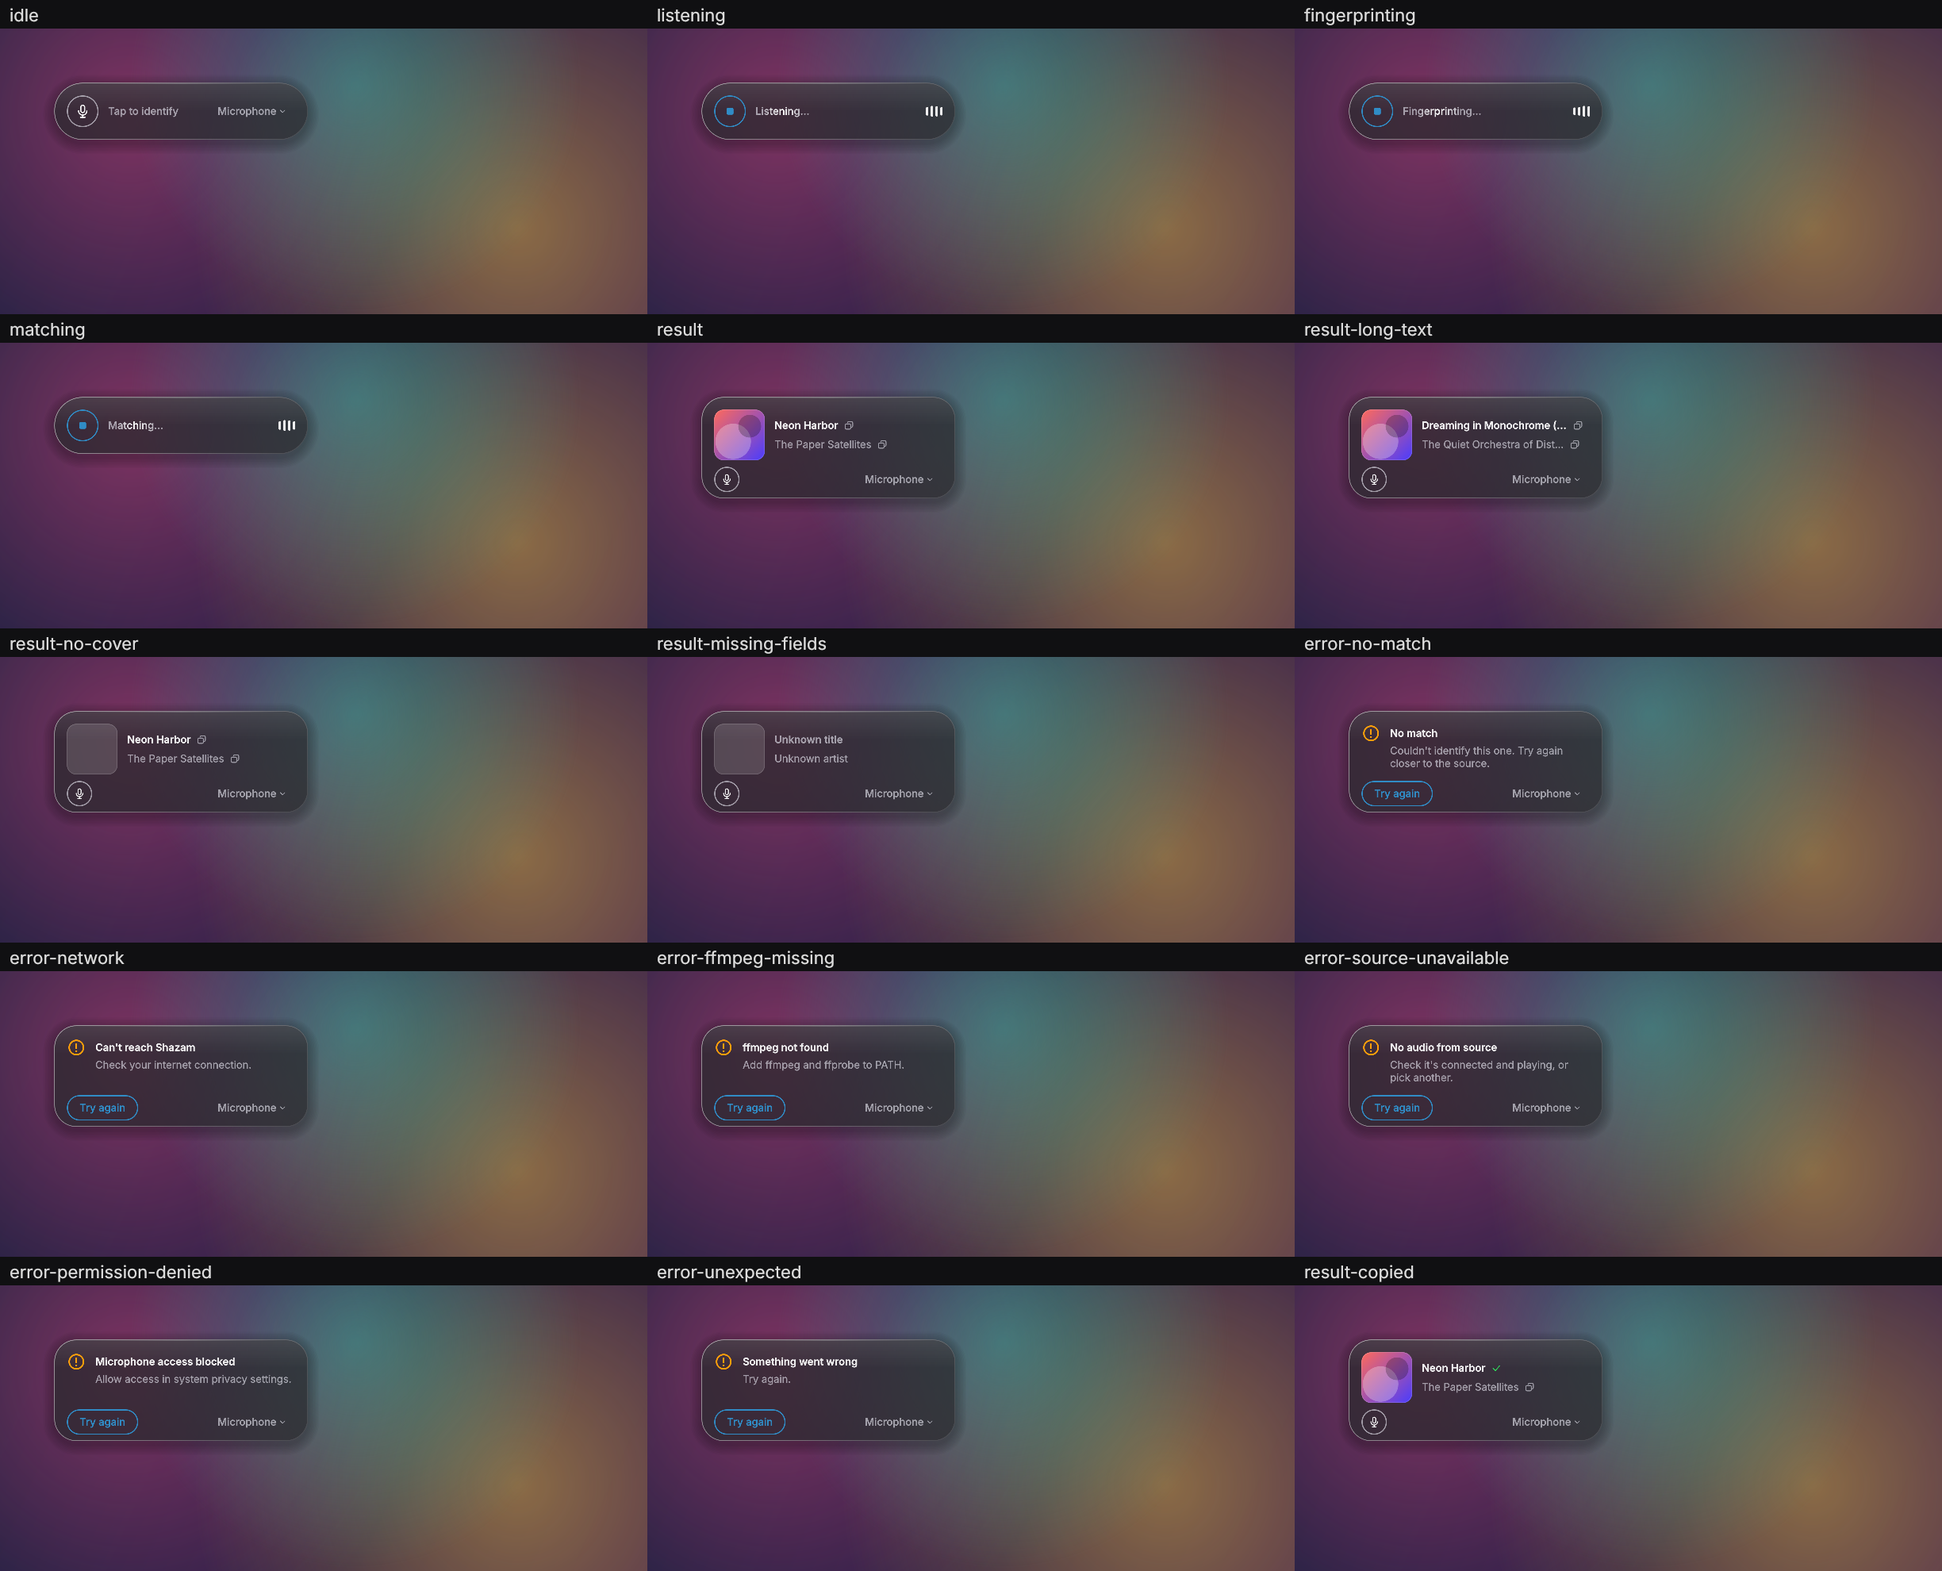
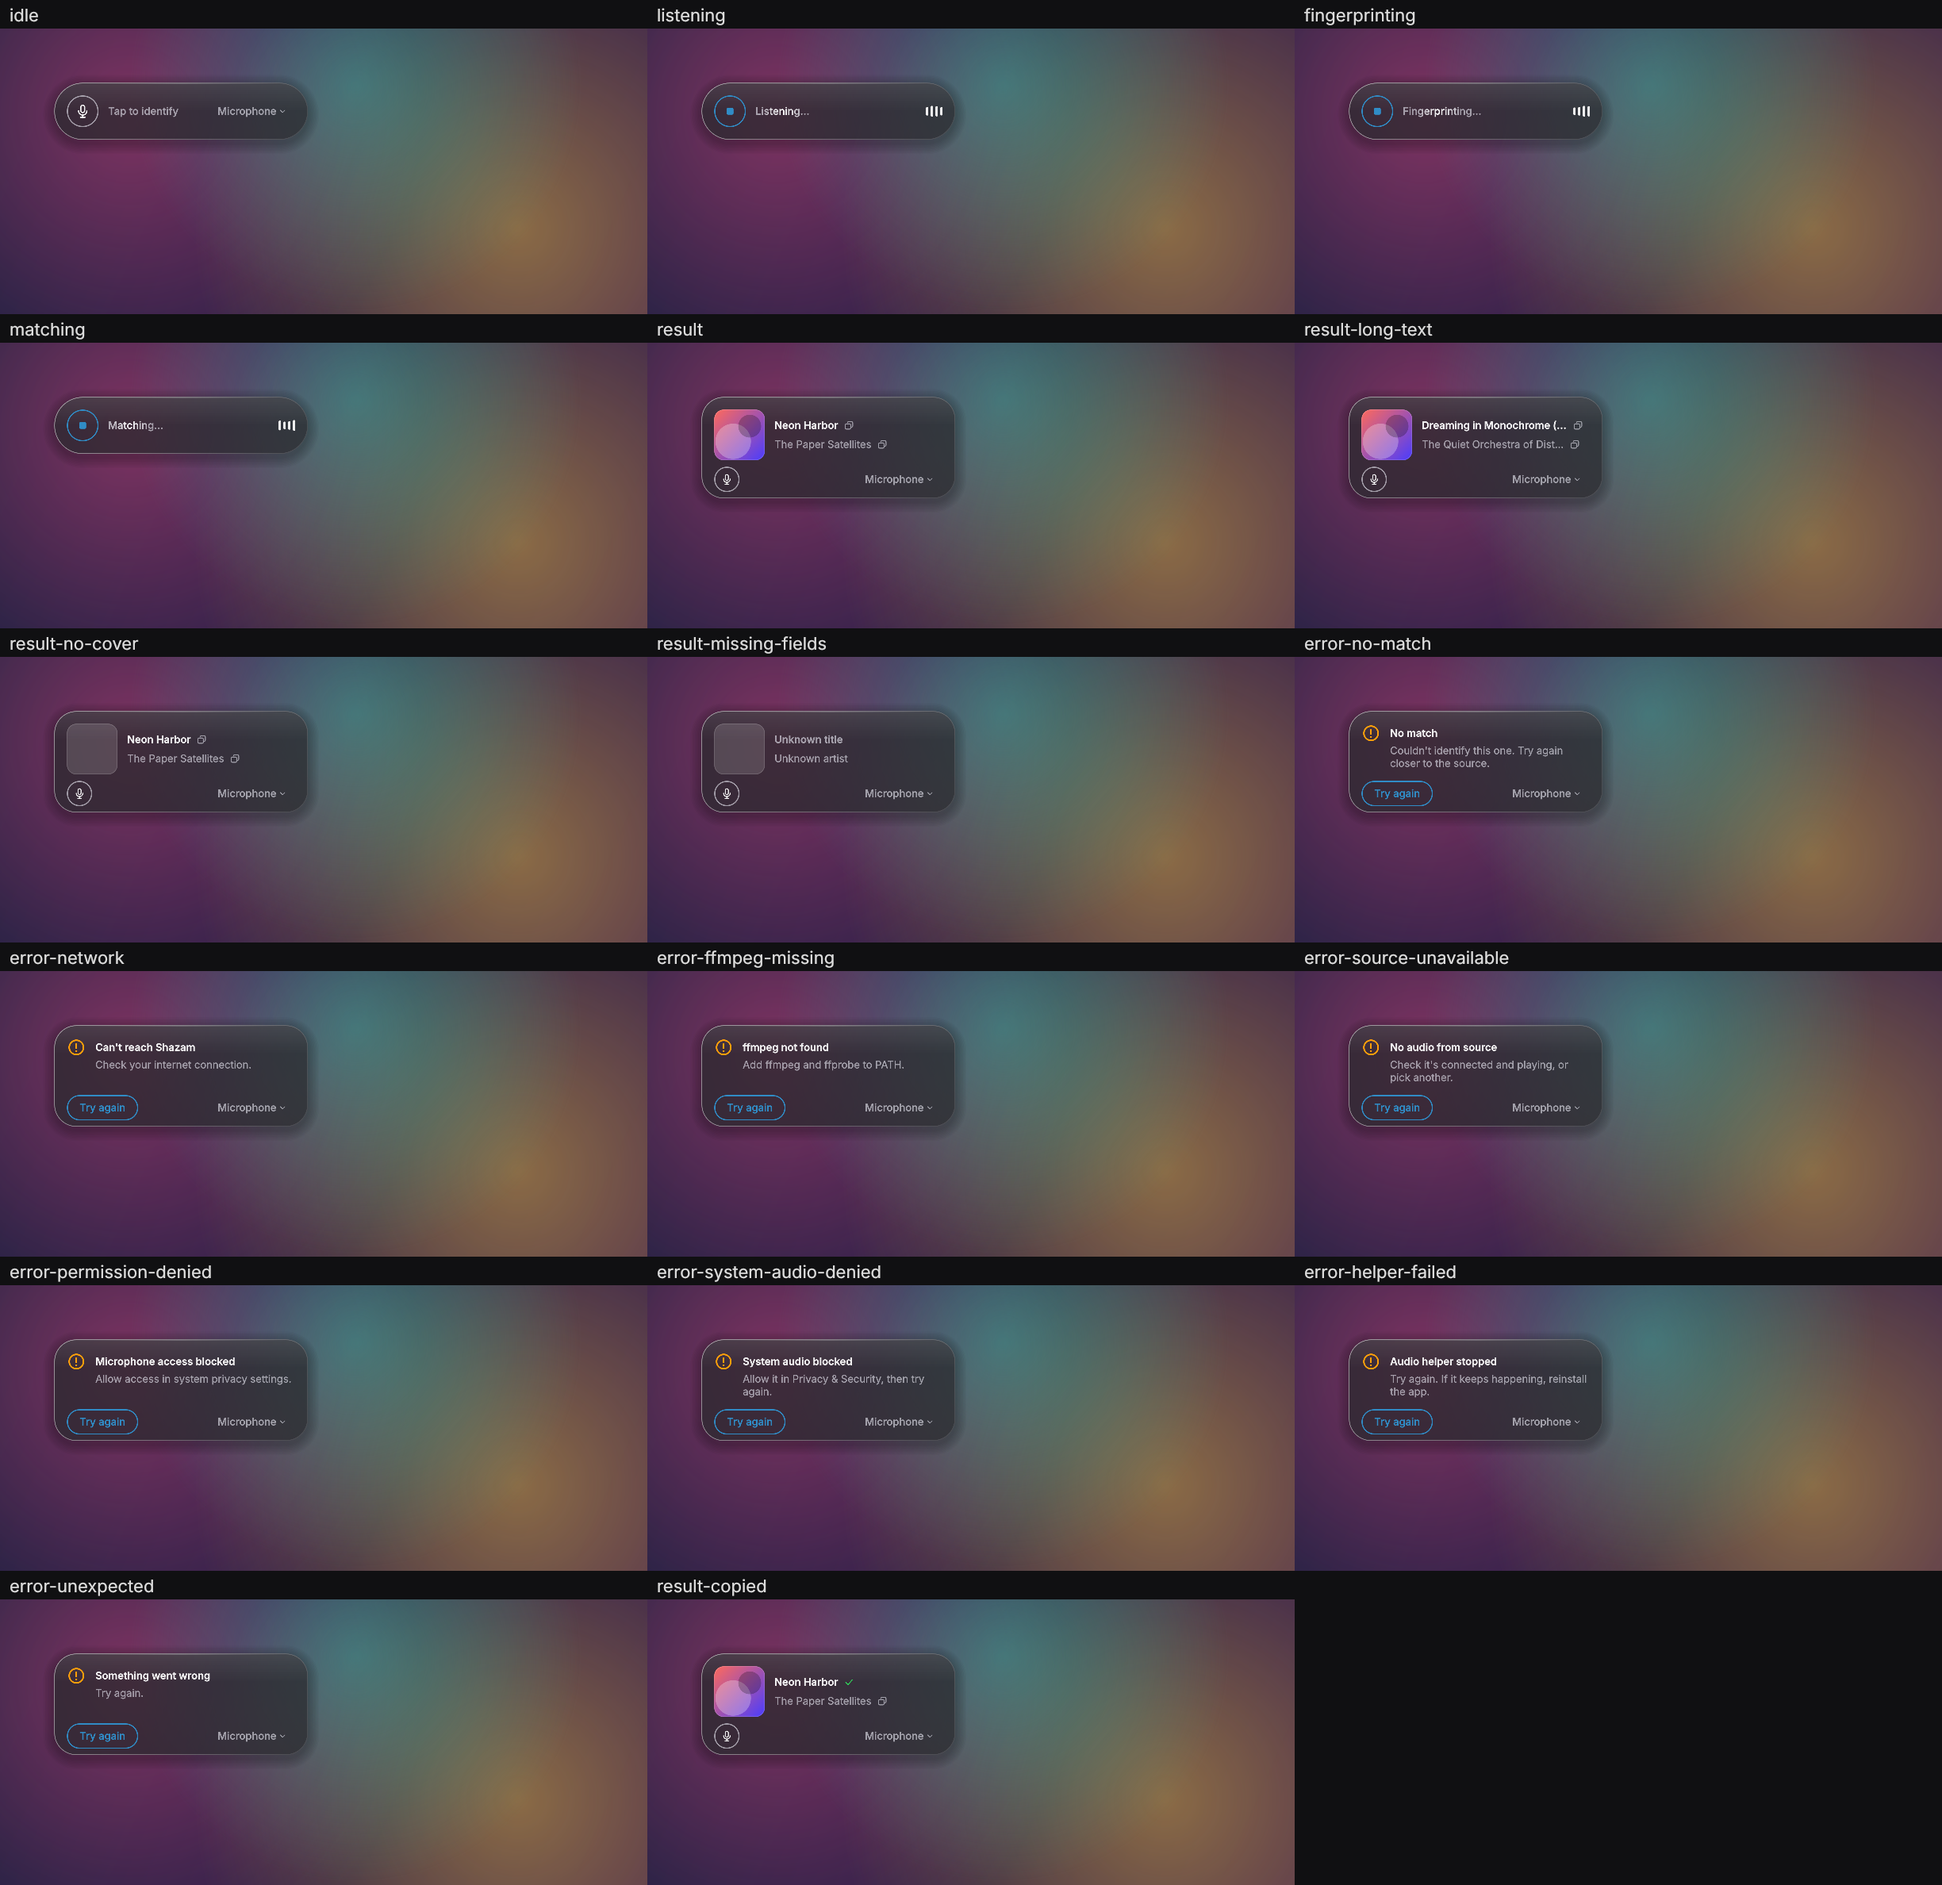
docs: describe macOS system audio capture

diff --git a/scripts/capture_screenshots.py b/scripts/capture_screenshots.py
@@ -31,6 +31,7 @@ from PySide6.QtGui import (
 from PySide6.QtWidgets import QApplication
 
 from shazam_desktop.audio.backend import AudioStream, FrameCallback
+from shazam_desktop.audio.backends.macos_system import SYSTEM_HINT_OLD_OS
 from shazam_desktop.audio.sources import (
     AudioSource,
     InputDevice,
@@ -56,7 +57,7 @@ class StubBackend:
             [InputDevice(1, "MacBook Pro Microphone"), InputDevice(2, "USB Audio Device")],
             default_index=1,
             loopback=None,
-            system_hint="Install BlackHole. See the README.",
+            system_hint=SYSTEM_HINT_OLD_OS,
         )
 
     def open_stream(self, source: AudioSource, on_frames: FrameCallback) -> AudioStream:

diff --git a/README.md b/README.md
@@ -117,10 +117,20 @@ stores the hotkey on the first source change, so edit it there to override the d
 
 - **Windows.** WASAPI loopback through PyAudioWPatch, no setup. It mirrors the default output
   device.
-- **macOS.** There is no native capture API reachable from Python. Install
-  [BlackHole](https://existential.audio/blackhole/), create a Multi-Output Device (your speakers +
-  BlackHole) in Audio MIDI Setup and make it the system output. BlackHole then appears as
-  System Audio. Without it the entry is disabled with a hint.
+- **macOS 13 and newer.** No drivers or audio routing. A small Swift helper
+  (`macos/AudioHelper`, `shazam-audio-helper`) captures the system mix and streams 16 kHz mono
+  s16le PCM to the app over a pipe. It uses a Core Audio process tap on macOS 14.2+ and a
+  ScreenCaptureKit audio stream on macOS 13 to 14.1. Playback is not muted or changed.
+- **macOS below 13.** System Audio is disabled with a hint; microphones work.
+
+Permission prompts on macOS:
+
+- 14.2+: **system audio recording** (Privacy & Security → Screen & System Audio Recording).
+  The first run asks; if the answer is not given in time or is "Don't Allow", the card says
+  "System audio blocked": grant it in that pane, then press "Try again".
+- 13 to 14.1: **Screen Recording** (same pane). ScreenCaptureKit requires it even for audio only;
+  nothing is recorded from the screen.
+- If the helper itself dies, the card says "Audio helper stopped".
 
 ## Development
 
@@ -151,10 +161,16 @@ Locally (on the platform you build for):
 
 ```sh
 bash packaging/build_ffmpeg.sh build/ffmpeg          # Windows: from an MSYS2 MINGW64 shell
+bash packaging/build_audio_helper.sh build/helper    # macOS only: needs Xcode command line tools
 pip install -e ".[build]"
-FFMPEG_DIR=build/ffmpeg pyinstaller --noconfirm packaging/shazam-desktop.spec
+FFMPEG_DIR=build/ffmpeg AUDIO_HELPER_DIR=build/helper pyinstaller --noconfirm packaging/shazam-desktop.spec
 dist/shazam-desktop --self-check                     # macOS: dist/"Shazam Desktop.app"/Contents/MacOS/...
 ```
+
+On macOS, `--self-check` also runs `shazam-audio-helper --probe` and checks that it picked the
+backend that matches the OS. The helper's portable core (mixdown, resampler, PCM encoder) has
+unit tests: `swift test --package-path macos/AudioHelper`. For development, the Python app finds a
+local build in `macos/AudioHelper/.build/{release,debug}` or via `SHAZAM_AUDIO_HELPER`.
 
 `--self-check` exits with 0 when everything is in place; `--report FILE` also writes the report
 to a file (a windowed Windows build has no console).
@@ -175,7 +191,7 @@ to a file (a windowed Windows build has no console).
 - With native blur on Windows the shadow is drawn by DWM on a best-effort basis.
 - The macOS input device list is not refreshed while the app runs; restart after plugging in a
   device.
-- Linux is not a goal: the code imports there, but there is no loopback source and no native blur.
+- Linux is not a goal: the code imports there, but there is no system-audio source and no native blur.
 
 ## Decisions
 
@@ -189,8 +205,13 @@ to a file (a windowed Windows build has no console).
   "No audio from source" on system audio. A 3 s stall of frames maps to the latter.
 - A deadline hit during recognition is reported as a network error.
 - The source is stored as `mic:<name>`; a vanished device falls back to the default microphone.
-- Loopback-like devices (BlackHole, Soundflower, Loopback, monitors) are excluded from the
+- Loopback-style input devices (Soundflower, Loopback, monitors) are excluded from the
   microphone list.
+- Helper protocol: PCM on stdout, JSON event lines on stderr (`permission_prompt`, `ready`,
+  `error`), exit status 2 permission denied, 3 unsupported macOS, 4 other failure; closing its
+  stdin stops it. The tap path has no public permission query, so the helper asks TCC through
+  `TCCAccessPreflight`/`TCCAccessRequest` (private, resolved at run time) and falls back to a
+  silence watchdog if they are missing.
 - Windows hotkey: `RegisterHotKey` on a private message-loop thread. It matches by virtual-key
   code, so it works under any keyboard layout and while another window is focused. `pynput`
   matched by layout character (Cyrillic `ы` instead of `s`) and was dropped there.
